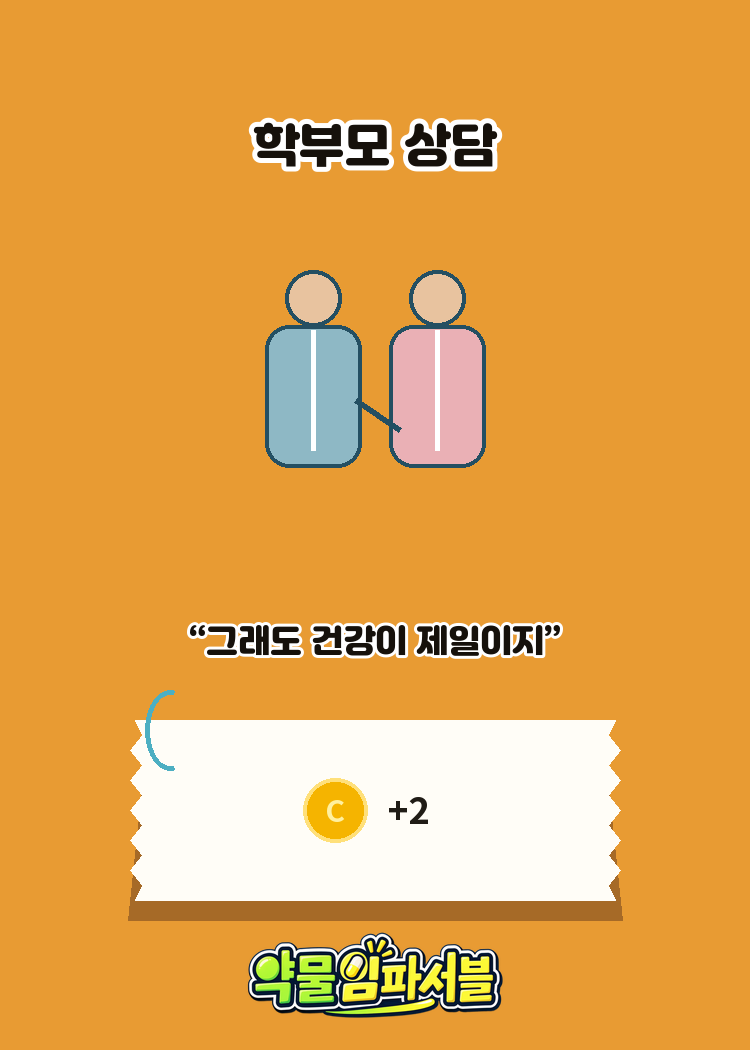
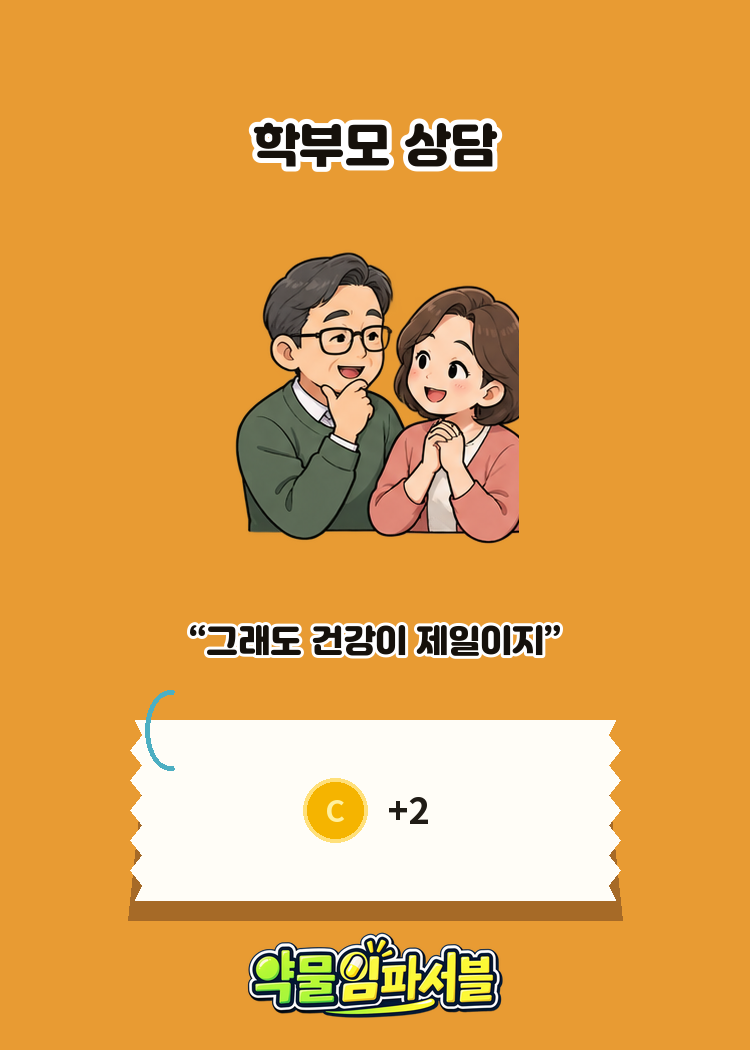
Add original event card illustrations

Changed region(s): [[0.3067, 0.2438, 0.7053, 0.5181]]

diff --git a/assets/cards/event/illustrations/README.md b/assets/cards/event/illustrations/README.md
@@ -1,0 +1,8 @@
+# 이벤트 카드 일러스트 에셋
+
+이 폴더의 `event.01.png`부터 `event.12.png`까지가 이벤트 카드 앞면에 합성되는 자체 제작 일러스트입니다.
+
+- 투명 배경 PNG를 사용합니다.
+- 그림 안에는 제목, 효과 문구, 로고를 넣지 않습니다. 이 요소들은 카드 생성기가 별도로 배치합니다.
+- 같은 파일명으로 교체한 뒤 `tools/create_cards.py`를 실행하면 고정된 일러스트 영역 안에서 비율을 유지해 다시 배치됩니다.
+- 카드 규격과 문구 영역을 지키기 위해 생성기는 일러스트를 `500 × 330px` 영역 안에 맞춥니다.
